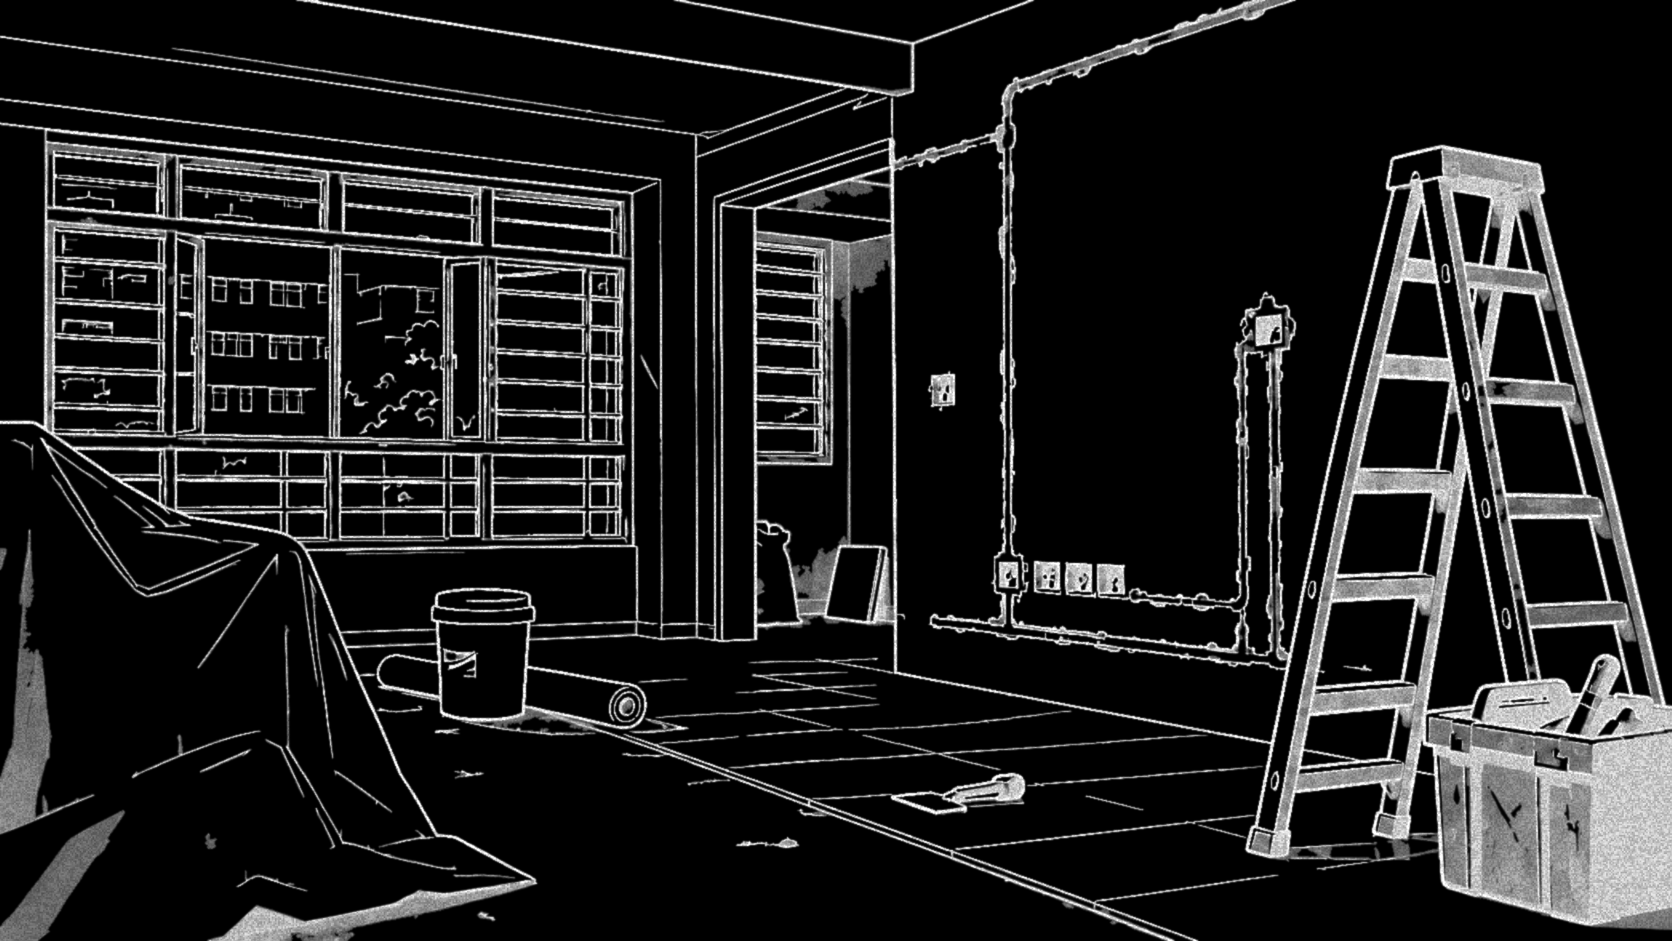
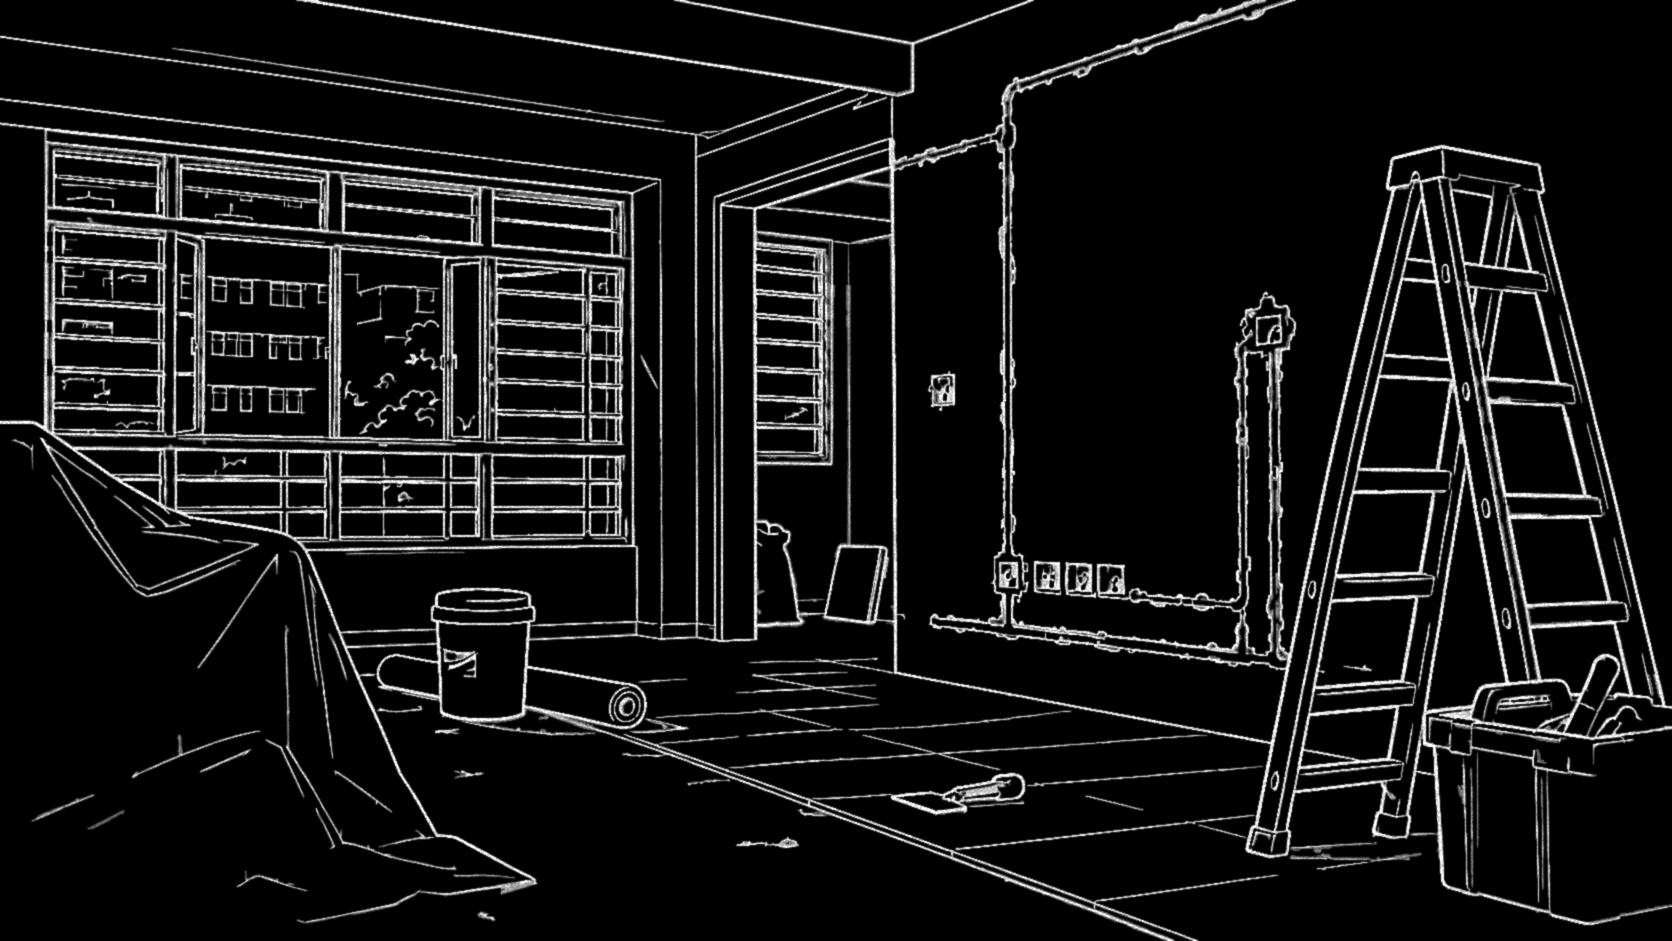
Pencil line maps: outlines only, no graphite patches on dark fills; edge round 3 approved
Claude-Session: https://claude.ai/code/session_01D6nkZjZkFEy59LYUQGD3aV

diff --git a/tools/pencil_lines.py b/tools/pencil_lines.py
@@ -27,6 +27,12 @@ def lines(plate):
     blur = ndi.gaussian_filter(g, 2.2)
     dog = np.clip((blur - g - 6) / 16, 0, 1)        # thin strokes darker than their surroundings
     dark = np.clip((95 - g) / 55, 0, 1)             # thick dark outlines
+    # ...but not big dark fills (a black toolbox, deep shadow): those would turn into graphite patches.
+    # Their outlines still come through from the DoG term.
+    fill = ndi.binary_opening(dark > 0.5, structure=np.ones((9, 9)))
+    fill = ndi.binary_dilation(fill, iterations=1)
+    dark = dark * ~fill
+    dark = dark * ndi.binary_dilation(dog > 0.3, iterations=2)   # only dark pixels that belong to a stroke
     l = np.maximum(dog, 0.8 * dark)
     m = l > 0.35                                    # drop texture specks: keep connected strokes only
     lab, n = ndi.label(m)

diff --git a/reviews/scene-edge-pencil.md b/reviews/scene-edge-pencil.md
@@ -53,3 +53,8 @@ Inside the painting the overlay is clear, so there's no pencil over the paint. O
 - Add an "Edge (pencil)" section to `site/qa/REPORT.md`.
 
 **Note for later (café):** the cast (barista, child, old man, cat) and the mum get the same rule as Rachel: `aPaint` = 1 under them.
+
+## Wren's review of round 3 (2026-11-20): approved, plus one asset refresh
+- All checks pass. The hard cuts are gone, and the pencil matches mock-up B.
+- **Decision:** keep "redraw the edge when a scene returns" (+10–60 ms on a 1.5 s switch is invisible). Don't rework Rachel's return frame.
+- **Toolbox patch fixed at the source:** `tools/pencil_lines.py` no longer turns big dark fills (the toolbox, the drop cloth's shadows) into graphite. Only outlines remain. Both `scene/pencil/*-lines.png` are regenerated on `main`. Pull, rebuild the assets, re-check the mushrooms (≥ 0.95) and Rachel, re-shoot `pencil-compare.jpg` and `pencil-corners.jpg`, then commit and push. No code changes expected.
